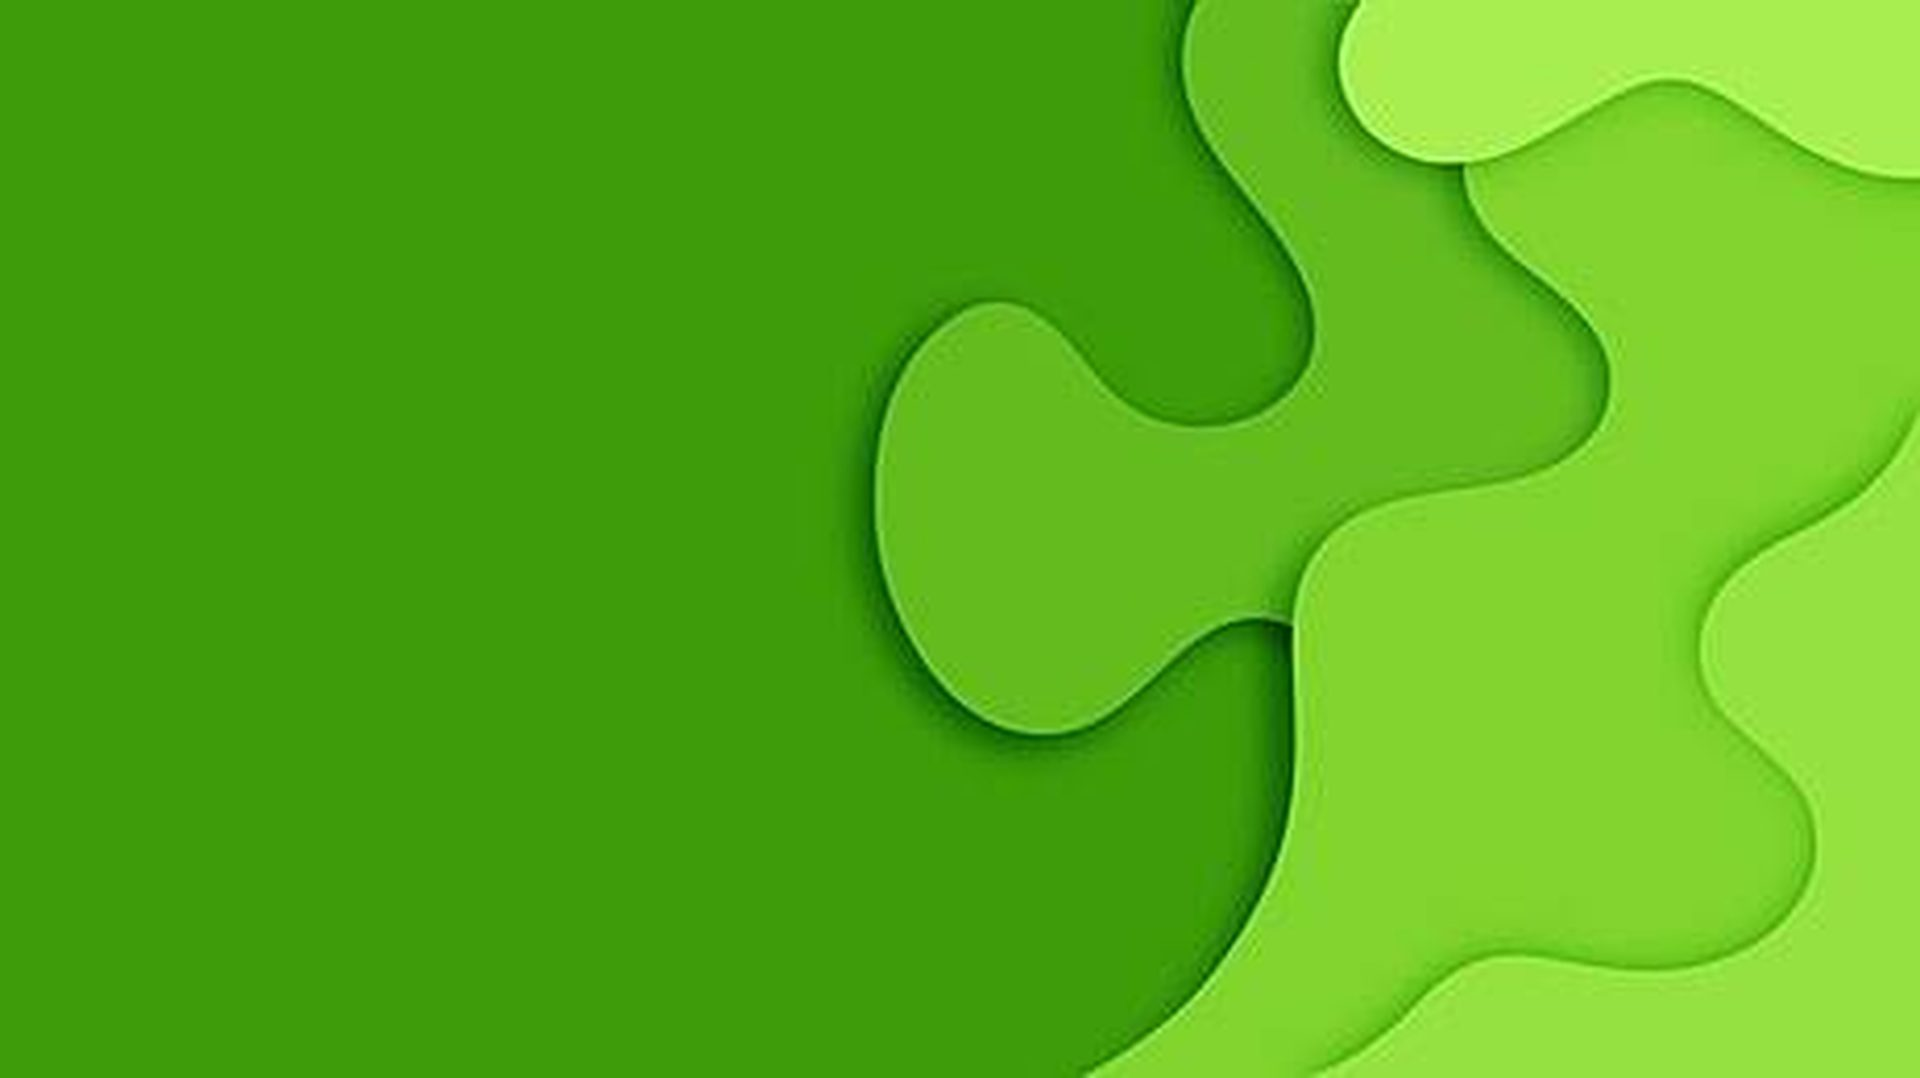
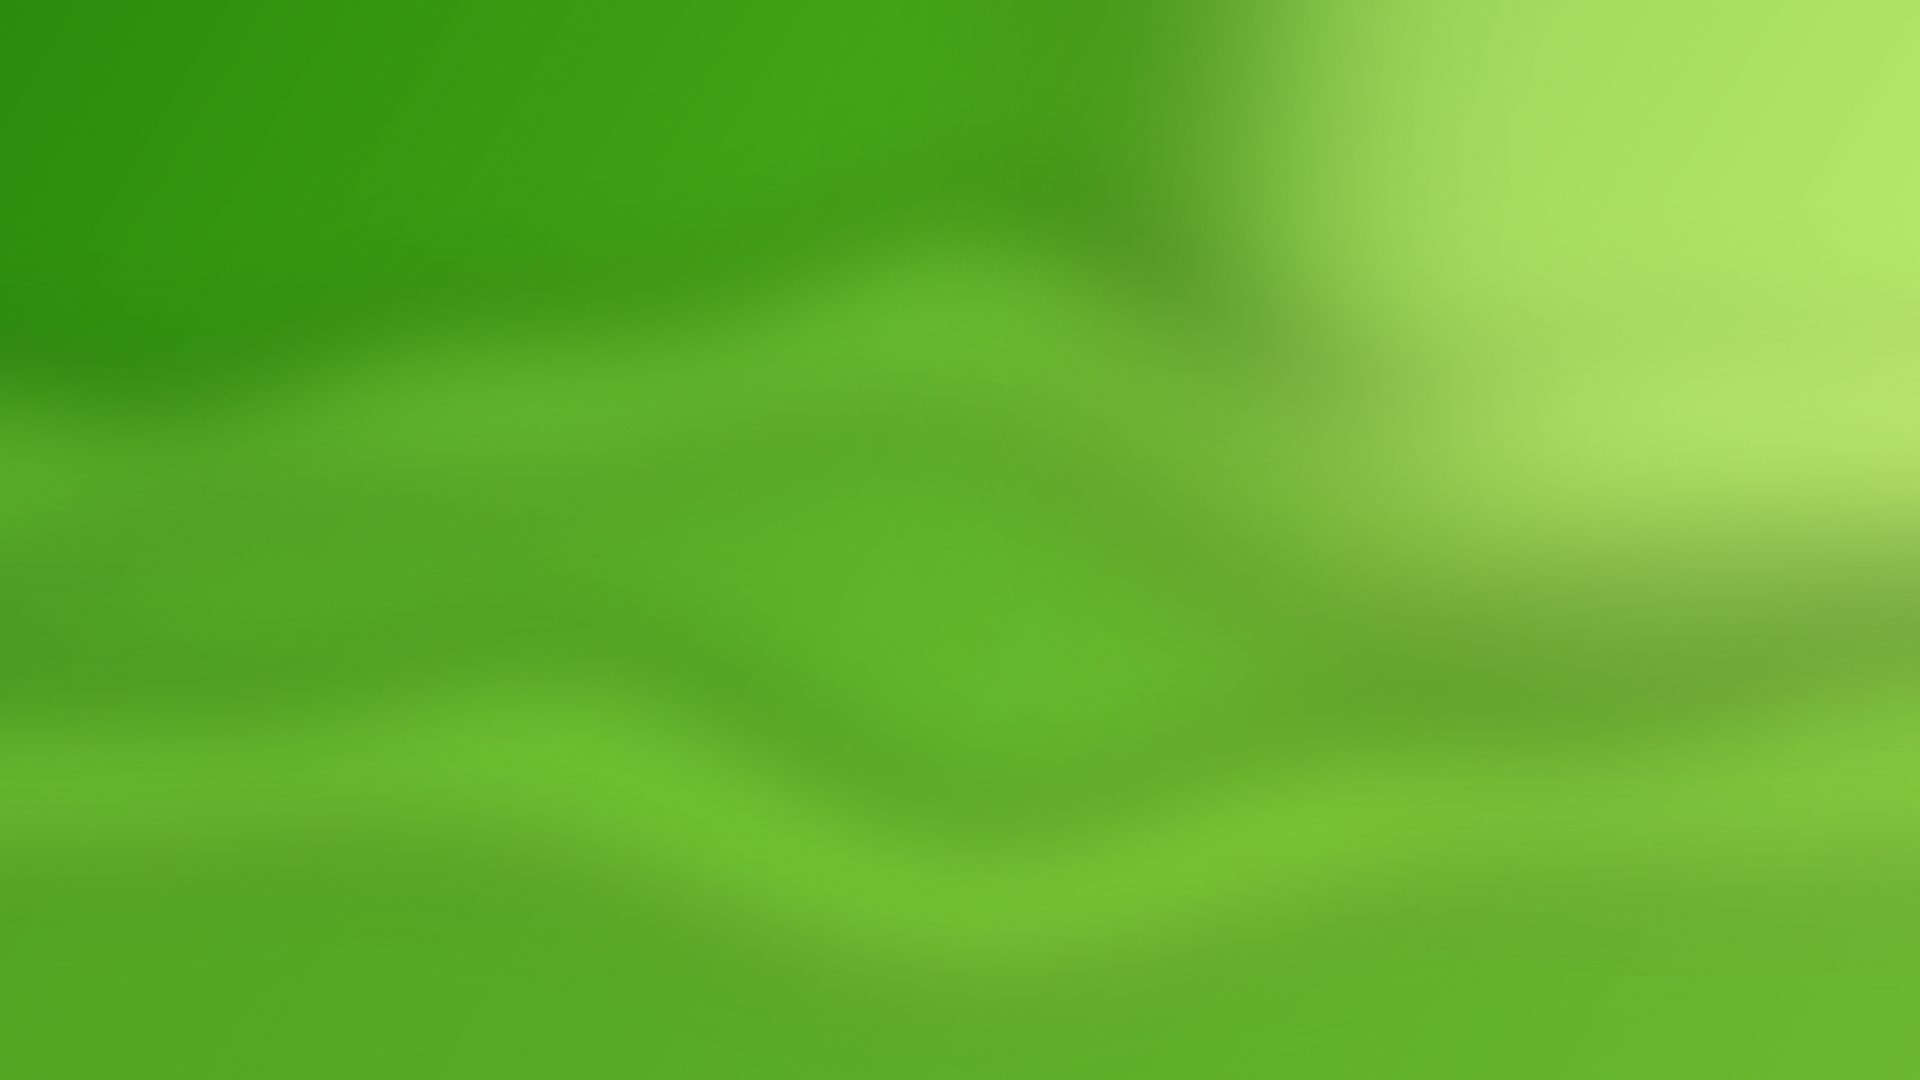
fix: coordinator asks for a subject on vague requests; smoother green background; prompt fixes

diff --git a/leo/prompts.py b/leo/prompts.py
@@ -38,20 +38,20 @@ ROLES = {
 TASKS = {
     "coordinator": (
         "Student request: '{topic}'. Preferred level: {level}. Previous topics: {history}. "
-        "Resolve vague follow-ups such as 'tell me more' using the previous topics. If the request is clear and educational, set is_clear=true, rewrite the topic as a short title of at most 6 words, "
+        "Resolve vague follow-ups such as 'tell me more' using the previous topics. A request is clear only if it names a specific subject. If it is vague, for example 'teach me something', set is_clear=false and ask which subject; never choose a topic for the student. If the request is clear and educational, set is_clear=true, rewrite the topic as a short title of at most 6 words, "
         "and list 3 to 5 focus_points. Otherwise set is_clear=false and write one clarification."
     ),
     "explainer": (
         "Teach this plan: {plan}. Weak areas to stress (may be empty): {weak}. Reference material (may be 'none'): {context}. When reference material exists, teach only from it. "
-        "Write a lesson in Markdown under 250 words with an analogy and a mini example."
+        "Write a lesson in Markdown under 250 words with an analogy and a mini example. Use $...$ only for math. Never use a dollar sign for money, write amounts like 'USD 200k'."
     ),
     "quiz_master": (
         "Using only the lesson written in the previous task, create {n} multiple choice questions about "
-        "the topic '{topic}'. Return structured output."
+        "the topic '{topic}'. Return structured output. Use $...$ only for math. Never use a dollar sign for money, write amounts like 'USD 200k'."
     ),
     "evaluator": (
         "Quiz with correct answers: {quiz}. Student answers with the correct option for each question: "
         "{answers}. Never mention option indexes or numbers, refer to the option text. Score already computed: {score} percent. Write feedback per question, "
-        "list weak_topics, and add a short encouragement."
+        "list weak_topics, and add a short encouragement. Use $...$ only for math. Never use a dollar sign for money, write amounts like 'USD 200k'."
     ),
 }

diff --git a/leo/orchestrator.py b/leo/orchestrator.py
@@ -2,6 +2,7 @@
 import json
 import logging
 import os
+import re
 import time
 from dataclasses import dataclass
 from typing import Callable
@@ -17,6 +18,19 @@ log = logging.getLogger("leo")
 PASS_MARK = 60.0
 Step = Callable[[str, str], None]
 JSON_RULE = " Reply with ONLY one valid JSON object that matches this JSON schema, no markdown fences: {schema}"
+
+
+VAGUE = re.compile(
+    r"^(please )?(teach|tell|show|help|explain)( me)?( something| anything| stuff| a topic)?$"
+    r"|^(something|anything|stuff|random|surprise me|i want to learn( something)?|learn something|hi|hello|hey)$")
+CLARIFY = ("Which subject would you like to learn? For example: 'What is machine learning?', "
+           "'How does a decision tree work?' or 'How does backpropagation work?'")
+
+
+def is_vague(text: str) -> bool:
+    """The Coordinator's first check: a request with no subject is never guessed."""
+    t = re.sub(r"\s+", " ", re.sub(r"[^a-z0-9\s]", "", text.lower())).strip()
+    return not t or bool(VAGUE.match(t))
 
 
 class LeoError(Exception):
@@ -153,6 +167,8 @@ def teach(name: str, topic: str, level: str, history: str = "none",
     """Phase 1: Coordinator, then Explainer and Quiz Master. Returns a clarification str if unclear."""
     step = on_step or (lambda *_: None)
     step("Coordinator", "Validating request and planning")
+    if is_vague(topic):
+        return CLARIFY
     plan: Plan = _guarded("coordinator", dict(name=name, topic=topic, level=level, history=history), Plan)
     if not plan.is_clear:
         return plan.clarification or "Could you tell me a little more about the topic?"

diff --git a/tests/test_core.py b/tests/test_core.py
@@ -81,3 +81,11 @@ def test_retry_fails_fast_on_quota(monkeypatch):
     with pytest.raises(o.LeoError):
         o._retry("x", fn)
     assert len(calls) == 1
+
+
+def test_vague_requests_are_not_guessed():
+    from leo.orchestrator import is_vague
+    for text in ["Teach me something", "teach me something!", "help", "Hello", "  ", "Tell me anything", "surprise me"]:
+        assert is_vague(text), text
+    for text in ["What is machine learning?", "backpropagation", "tell me more", "How does a decision tree work?"]:
+        assert not is_vague(text), text

diff --git a/app.py b/app.py
@@ -239,6 +239,8 @@ def begin(topic: str, level: str, weak: str = "") -> None:
         st.error(f"Coordinator: {exc}")
         return
     if isinstance(out, str):
+        S.done, S.active = ["Coordinator"], ""
+        tracker()
         st.warning(f"🧭 Coordinator needs more detail: {out}")
         return
     S.lesson, S.stage, S.done, S.active = out, "quiz", list(AGENTS)[:3], ""
